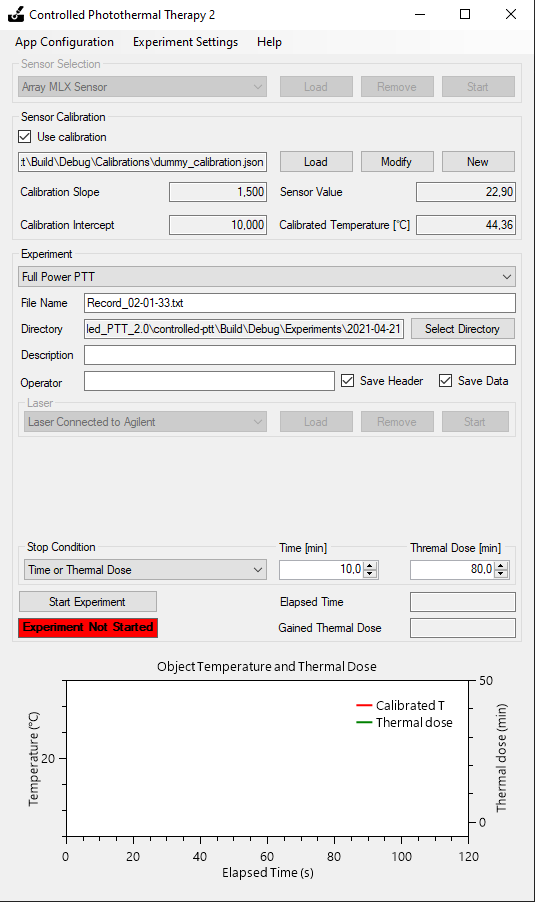
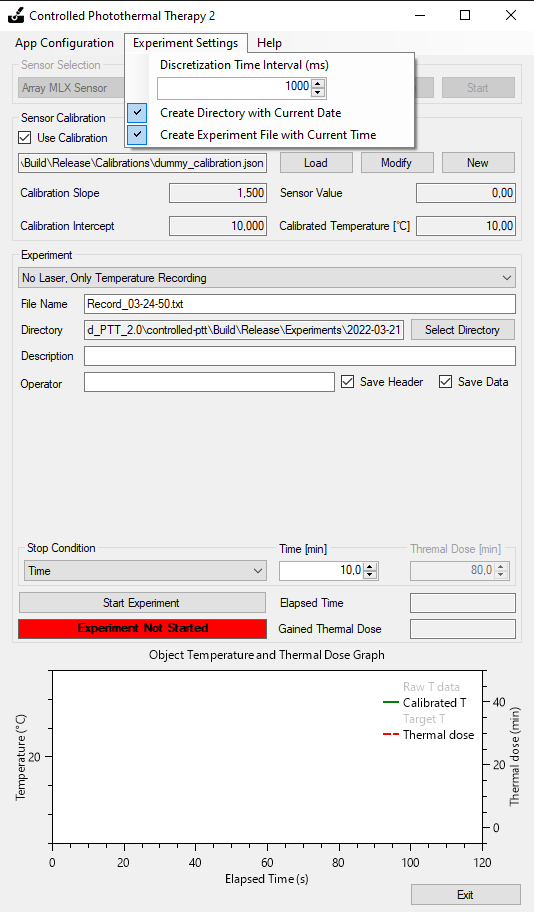
Working on README.md files.

diff --git a/App/App.cs b/App/App.cs
@@ -711,10 +711,7 @@ namespace ControlledPTT
         {
             _discretizationTime = (int)nudDiscretizationTimeToolStripMenuItem.NumericUpDownControl.Value;
             _expTimer.Interval = _discretizationTime;
-            if (_sensor != null)
-            {
-                _sensor.SetTimerInterval(_discretizationTime);
-            }
+            _sensor?.SetTimerInterval(_discretizationTime);
         }
 
         /// <summary>
@@ -944,7 +941,9 @@ namespace ControlledPTT
             SaveAppConfiguration();
 
             _calibration.Dispose();
-            // Log.CloseAndFlush();
+
+            _sensor?.Close();
+            _laser?.Close();
         }
 
         private void saveToolStripMenuItem_Click(object sender, EventArgs e)

diff --git a/README.md b/README.md
@@ -3,9 +3,11 @@
 [![DOI](https://zenodo.org/badge/284663695.svg)](https://zenodo.org/badge/latestdoi/284663695)
 [![License](https://img.shields.io/badge/license-GPLv3.0-blue)](./LICENSE)
 
-# Controlled Photothermal Therapy 2.0
+# Controlled Photothermal Therapy 2
 
-Controlled Photothermal Therapy 2.0 (or just Controlled PTT 2) is the second version of software and hardware setup to study thermal effects of nanoparticles under laser irradiation *in vitro* (on living cells) or *in vivo* (in small animals). The primary aim is to control the temperature if cell media *in vitro*, but the setup can be applied for animal studies. Depending on time of laser irradiation, nanoparticle type, their photothermal conversion efficiency, different thermal dose can be delivered to the irradiated object. Thus, different biological responses can be triggered depending on the maximum achived temperature and gained thermal dose. More about thermal dose can be found in our [publication](https://www.sciencedirect.com/science/article/pii/S0378517320306414).
+![ControlledPTT.App.All](./Docs/Images/ControlledPTT.App.Experiment.png)
+
+Controlled Photothermal Therapy 2 (or just Controlled PTT 2) is the second version of software and hardware setup to study thermal effects of nanoparticles under laser irradiation *in vitro* (on living cells) or *in vivo* (in small animals). The primary aim is to control the temperature if cell media *in vitro*, but the setup can be applied for animal studies. Depending on time of laser irradiation, nanoparticle type, their photothermal conversion efficiency, different thermal dose can be delivered to the irradiated object. Thus, different biological responses can be triggered depending on the maximum achived temperature and gained thermal dose. More about thermal dose can be found in our [publication](https://www.sciencedirect.com/science/article/pii/S0378517320306414).
 
 Controlled PTT 2 consists of two main parts: [hardware part](#hardware) and [software part](#software). The hardware part consists of temperature sensor(s) and a laser. Depending on the application, different sensor parts and laser parts can be used. You can also develop your own sensor or laser parts, or they can be developed specifically for you upon a request. Please contact [Konstantin Tamarov](mailto:konstantin.tamarov@uef.fi) to discuss your requirements.
 
@@ -13,7 +15,7 @@ Controlled PTT 2 was developed by Konstantin Tamarov, PhD, Emilia Happonen, MSc,
 
 ## Reqiurements
 
-The Controlled PTT 2.0 consists of 3 main parts: (1) the PC program written in C# programming language; (2) the board part which reads the temperature sensor data and sends it to the PC program; (3) the laser part which controls the laser hardware if it is attached. The following requirements are in place:
+The Controlled PTT 2 consists of 3 main parts: (1) the PC program written in C# programming language; (2) the board part which reads the temperature sensor data and sends it to the PC program; (3) the laser part which controls the laser hardware if it is attached. The following requirements are in place:
 
 - [.NET Framework 4.7.2](https://dotnet.microsoft.com/download/dotnet-framework/net472) to run the software on a PC with Windows OS. .NET Framework 4.7.2 is included by default in Windows 7 or higher.
 - [Arduino Studio 1.8.13](https://www.arduino.cc/en/software) or higher. Arduino Studio is needed to install necessary drivers and upload the program to the board. Refer to the [sensors](#selecting-sensor-part) section or to the full [Sensors](./Sensors) documentation for more information about temperature sensors and boards.
@@ -28,8 +30,8 @@ The Controlled PTT 2 software requires either its executables to be [downloaded]
 ### Download executables
 
 To use the Controlled PTT 2 executables directly do the following:
-1. Download Executables.zip archive from the [latest release](https://github.com/naitsok/controlled-ptt/releases/).
-2. Unpack the contents of Executables.zip to any suitable location (e.g. Program Files, Documents, Desktop, etc.).
+1. Download Release-v2.x.x.zip archive from the [latest release](https://github.com/naitsok/controlled-ptt/releases/).
+2. Unpack the contents of Release-v2.x.x.zip to any suitable location (e.g. Program Files, Documents, Desktop, etc.).
 3. Navigate to Sensors directory and select the appropriate sensor. Sketches and necessary libraries for boards are located in Board* directory for each sensor.
 4. Upload the selected sensor's sketch to the board using Arduino Studio. The detailed instruction for boards are in the [Sensors](./Sensors).
 5. Run the ControlledPTT.App.exe. More information about its capabilities and interface is in [App](./App).
@@ -43,7 +45,7 @@ To build the Contolled PTT 2 from source do the following:
 2. Download source code from the [latest release](https://github.com/naitsok/controlled-ptt/releases/) or clone the repository using the git command `git clone https://github.com/naitsok/controlled-ptt`.
 3. Navigate to controlled-ptt/Sensors directory and select the appropriate sensor. Sketches and necessary libraries for boards are located in Board* directory for each sensor.
 4. Upload the selected sensor's sketch to the board using Arduino Studio. The detailed instruction for boards are in the [Sensors](./Sensors).
-5. Run Visual Studio and open the [controlled-ptt/ControlledPTT.sln](./ControlledPTT.sln) file. There should be 9 C# project including ControlledPTT.App.
+5. Run Visual Studio and open the [controlled-ptt/ControlledPTT.sln](./ControlledPTT.sln) file. There should be 10 C# project including ControlledPTT.App.
 6. Make sure that Startup Project is ControlledPTT.App in the dropdown list in the panel below menu.
 7. Select either Debug or Release.
 8. In the Visual Studio interface press "Start" to start building solution. If there are no errors, ControlledPTT.App will launch after a while.
@@ -68,21 +70,23 @@ If there is no part suitable for your hardware, new sensor part [can be develope
 
 #### Troubleshooting
 
-- Mkae sure that the board connected via USB is recognized by PC. It can be done using Windows Device Manager and checking if there are unrecognized USB devices.
+- Make sure that the board connected via USB is recognized by PC. It can be done using Windows Device Manager and checking if there are unrecognized USB devices.
 - After uploading the sketch to the board using Arduino Studio, Serial Monitor there can be used to check if board is sending data to PC.
-- The compiled Windows Forms executables for each sensor part can be run separately without running ControlledPTT.App. By clicking "Connect to Board" button, the received data from board can be verified. Note that Serial Monitor of Arduino Studio must be closed.
+- The compiled Windows Forms executables for each sensor part can be run separately without running ControlledPTT.App. By clicking "Connect to Board" button, the received data from board can be verified. Note that Serial Monitor of Arduino Studio must be closed and the appropriate COM port must be selected.
 
 ### Selecting laser part
 
-At this moment the only option is to connect a laser diode to [Agilent N5768A or similar](./Lasers/Agilent) power supply, which is in turn connected to PC and ControlledPTT.App. The power supply sets the current to the laser diode and thus regulate its power.
+The currently developed laser parts are:
+1. [CNI LED Laser](./Lasers/CNIMDLIII) with the MDL-III-LED controller. Controlled PTT 2 sends the power data to the controller via COM port connection. The Prolific USB-to-Serial Comm Port is [Lib](./Lasers/CNIMDLIII/Lib) folder.
+2. Connect a laser diode to [Agilent N5768A or similar](./Lasers/Agilent) power supply, which is in turn connected to PC and Controlled PTT 2. The power supply sets the current to the laser diode and thus regulates its power.
 
-Thus, if you have a specific laser hardware which can be connected to PC, new laser part [can be developed](#developing-a-new-laser-part) upon a [request](mailto:konstantin.tamarov@uef.fi) or by [yourself](#development).
+If you have a specific laser hardware which can be connected to PC, new laser part [can be developed](#developing-a-new-laser-part) upon a [request](mailto:konstantin.tamarov@uef.fi) or by [yourself](#development).
 
 ## Detailed description
 
 Controlled PTT 2 aims at making photothermal experiments with nanoparticle suspensions easy, controlled, reproducible and versatile. Easiness is gained through using a unified interface of the [ControlledPTT.App](#software), which is independent from sensor or laser part used. Control is achieved by possibility to perform different types of experiments and applying different experiment stop conditions. Reproducibility is obtained through keeping calibrations and having different configuration profiles for different users. Versatility is aquired through independence of the [ControlledPTT.App](#software) from the laser and sensor part. Virtually any sensor and any laser can be connected to the [ControlledPTT.App](#software) considering its executable inherits [the necessary base classes](#development). Thus, the experiments can be performed in any imaginable experimental setup, including *in situ* measurements, *in vitro* experiments with live cells, or *in vivo* experiments with animals, provided that the suitable laser and sensor parts are available.
 
-Overall, to perform its functions properly  Controlled PTT 2 requires the necessary [hardware](#hardware) and [software](#software).
+Overall, to perform its functions properly Controlled PTT 2 requires the necessary [hardware](#hardware) and [software](#software).
 
 ### Hardware
 
@@ -90,13 +94,13 @@ Hardware of Controlled PTT 2 consists of two main parts:
 
 1) Sensor part. This part is responsible for getting data from sensors and sending it to PC via any suitable connection. At this point, the developed [sensor parts](#selecting-sensor-part) are dedicated to *in vitro* experiments in 96-well plates. These sensor parts consist of one or two infrared temperature sensors connected to an Arduino or similar board that each second sends the measured temperature data to a PC. On the PC, the sensor executable written in C# reads the data, parses it if necessary and sends to [ControlledPTT.App](#software) for calibration and further processing.
 
-2) Laser part. This part is resonsible for controlling laser hardware, e.g. initializing connection to laser, setting necessary parameters and controlling the laser power. At this point, the only available option is to control current sent to a laser diode through [Agilent power supply](./Lasers/Agilent).
+2) Laser part. This part is resonsible for controlling laser hardware, e.g. initializing connection to laser, setting necessary parameters and controlling the laser power. At this point, Agilent power supply and CNI Laser [laser parts](#selecting-laser-part) are programmed.
 
 ### Software
 
 Controlled PTT 2 Software consists of three parts:
 
-1) ControlledPTT.App(.exe) is the main application executable. It performes connection to sensor and laser part, manages sensor and laser, creates and keeps calibration for sensor data, and performes the experiment.
+1) ControlledPTT.App(.exe) is the main application executable. It performes connection to sensor and laser parts, manages sensor and laser, creates and keeps calibration for sensor data, and performes the experiment. More details can be found in [the related folder](./App).
 
 ![ControlledPTT.App](./Docs/Images/ControlledPTT.App.png)
 
@@ -110,7 +114,9 @@ There are there different stop conditions for an experiment:
 - Stop when specified thermal dose of the object is gained. More about thermal dose can be found in our [publication](https://www.sciencedirect.com/science/article/pii/S0378517320306414).
 - Stop when either timer expires or specified thermal dose is gained.
 
-2) ControlledPTT.Sensors.(MLXSensor|TwoMLXSensors|ArrayMLXSensor)(.exe) are executables for sensor parts. Inside of the deirectories for each sensor executable there is a folder with sketches for Arduino Studio and detailed instruction of board wiring and sketch upload guide. In the top of ControlledPTT.App interface sensor part can be selected and loaded. Below is the image of all sensor parts available now.
+The important option is "Discretization Time Interval" in ms; it can be modified in the Experimetal Setting menu. The "Discretization Time Interval" governs the time interval between the events during the experiment. In particular, it controls how often the temperature data from Sensor part is sent to the ControlledPTT.App, how often the data is processed and saved, and  how often Laser power is set. For example, if the "Discretization Time Interval" equals to 1000 ms, then each second data is obtained from a Sensor part, the data is modified according to the loaded calibration, the laser power is calculated and sent to the Laser part if the appropriate experiment type is selected.
+
+2) ControlledPTT.Sensors.(MLXSensor|TwoMLXSensors|ArrayMLXSensor)(.exe) are executables for sensor parts. Inside of the directories for each sensor executable there is a folder with sketches for Arduino Studio and detailed instruction of board wiring and sketch upload guide. In the top of ControlledPTT.App interface sensor part can be selected and loaded. Below is the image of all sensor parts available now.
 
 ![ControlledPTT.Sensors](./Docs/Images/ControlledPTT.Sensors.png)
 
@@ -152,13 +158,19 @@ To cite the latest version:
 
 K. Tamarov, M. Varis. 2021. Controlled Photothermal Therapy 2. [DOI: 10.5281/zenodo.4629678](https://doi.org/10.5281/zenodo.4749684).
 
-To cite the specific version, select the DOI of soecific version on [Zenodo page](https://doi.org/10.5281/zenodo.4749684):
+To cite the specific version, select the DOI of specific version on [Zenodo page](https://doi.org/10.5281/zenodo.4749684):
 
 K. Tamarov, M. Varis. 2021. Controlled Photothermal Therapy 2. DOI: (Use DOI of specific version).
 
 
-
 ## Changelog
+### V2.0.1
+
+#### Feature:
+- CNI Laser with PSU-III-LED controller is added.
+- Discretization Time Interval is added to the Experiment Settings menu.
+- Minor updates and bug fixes, such as correct configuration saving for laser and sensor parts.
+- Updated README.md files.
 
 ### v2.0.0
 #### Features:

diff --git a/App/README.md b/App/README.md
@@ -1,0 +1,36 @@
+## ControlledPTT.App
+
+This C# project hosts the main startup application of the Controlled PTT 2. When the Release-v2.x.x is downloaded, it is ControlledPTT.App.exe that must be tun in order for the Controlled PTT 2 to work. 
+
+![ControlledPTT.App](../Docs/Images/ControlledPTT.App.png)
+
+### Reqiurements
+
+- [.NET Framework 4.7.2](https://dotnet.microsoft.com/download/dotnet-framework/net472) to run the software on a PC with Windows OS. .NET Framework 4.7.2 is included by default in Windows 7 or higher.
+
+### Main functionality
+
+ControlledPTT.App controls all the main functions:
+1. It performs the connection to the selected [Sensor part](../Sensors) and received the temperature data. The Sensor parts can be added by the user if they cannot be found by the ControlledPTT.App.
+2. It performs and stores the calibration data for the temperature sensor. The calibration can be added, saved and modified through the ControlledPTT.App.
+3. It performs the connection to the selected [Laser part](../Lasers) and set the laser power if the appropriate [experiment type](#experiment-types) is selected. The Laser parts can be added by the user if they cannot be found by the ControlledPTT.App.
+4. It records the all the experimental data and additional meta parameters that can be found on the interface.
+5. Different user configurations (parameters) can be saved and reused making it easier for different user to use the software.
+
+### Important parameters and functions
+
+The important option is "Discretization Time Interval" in ms; it can be modified in the Experimetal Setting menu. The "Discretization Time Interval" governs the time interval between the events during the experiment. In particular, it controls how often the temperature data from Sensor part is sent to the ControlledPTT.App, how often the data is processed and saved, and  how often Laser power is set. For example, if the "Discretization Time Interval" equals to 1000 ms, then each second data is obtained from a Sensor part, the data is modified according to the loaded calibration, the laser power is calculated and sent to the Laser part if the appropriate experiment type is selected.
+
+"Discretization Time Interval" must be carefully selectd based on the current experiment requirements. It cannot be too small, because then it is possible that the ControlledPTT.App cannot perform all the functions before the second timer tick fires. Furthermore, short "Discretization Time Interval" does not allow to average the temperature sensor data, which is typically quite noisy. Too long "Discretization Time Interval" can, on the other hand, make controlling the experiment less responsive, especially of the laser power must be controlled to keep the selected temperature.
+
+### Experiment types
+
+There are three main types of experiments:
+- Experiment with only sensor part connected. ControlledPTT.App receives the data from sensor, uses calibration if applicable, writes the data to file. This experiment type can be used if laser is operated manually or there is no laser at all.
+- Experiment with a full laser power. The power of laser is set by the user in laser window and ControlledPTT.App only switches laser on when experiment is started and off when experiment is over.
+- Experiment with controlled laser power to achieve a specific temperature of the irradiated target. The power of laser is controlled using a built in Proportional-Integrtal-Differential (PID) controller in the limits set by the user in the laser window. The PID coefficients must be calibrated for the specifically used laser in order to be efficient.
+
+There are there different stop conditions for an experiment:
+- Stop when time expires.
+- Stop when specified thermal dose of the object is gained. More about thermal dose can be found in our [publication](https://www.sciencedirect.com/science/article/pii/S0378517320306414).
+- Stop when either timer expires or specified thermal dose is gained.

diff --git a/Sensors/README.md b/Sensors/README.md
@@ -1,3 +1,38 @@
-# controlledptt-sensor
+## Sensors
+
+
+### Requirements
+
+Each sensor part consists of two compnents: (1) the C# module to read the data sent from the sensor; (2) board connected to the sensor hardware and PC. The following requirements are in place:
+
+- [.NET Framework 4.7.2](https://dotnet.microsoft.com/download/dotnet-framework/net472) to run the C# module on a PC with Windows OS. .NET Framework 4.7.2 is included by default in Windows 7 or higher.
+- [Arduino Studio 1.8.13](https://www.arduino.cc/en/software) or higher. Arduino Studio is needed to install necessary drivers and upload the program to the board. More details in the [sensors section](#selecting-sensor-part).
+
+### Selecting sensor part
+
+The curently developed sensor parts are based on the [Melexis](https://www.melexis.com/en) infrared temperature sensors:
+1. MLX90621ESF-BAD-000. 16x4  array sensor with FOV 40x10 degrees (40 - 50 €).
+2. MLX90614ESF-BCF-000. Single pixel sensor with FOV 10 degrees (25 - 35 €).
+3. MLX90614ESF-BCI-000. Single pixel sensor with FOV 5 degrees (30 - 40 €).
+
+The latter two single point sensors can be used on their own with a basic Arduino board (Uno, RedBoard, etc.). See [MLX Sensor](./Sensors/MLXSensor) part for more details. 
+
+Furthermore, two single point sensors can be simultaneously attached to one board for better precision. See [Two MLX Sensors](./Sensors/TwoMLXSensors) part for more details. 
+
+Array sensor requires a board with more memory than Arduino. In our case a [Teensy 3.6](https://www.pjrc.com/teensy/) board was used. See [Array MLX Sensor](./Sensors/ArrayMLXSensor) part for more details.
+
+In order to use a selected sesnor part, the sensor must be correcly mounted to board and the appropriate sketch must be uploaded to the board. The detailed description of board wiring and sketch uploading can be found on the links above.
+
+If there is no part suitable for your hardware, new sensor part [can be developed](#developing-a-new-sensor-part) upon a [request](mailto:konstantin.tamarov@uef.fi) or by [yourself](#development). 
+
+#### Troubleshooting
+
+- Make sure that the board connected via USB is recognized by PC. It can be done using Windows Device Manager and checking if there are unrecognized USB devices.
+- After uploading the sketch to the board using Arduino Studio, Serial Monitor there can be used to check if board is sending data to PC.
+- The compiled Windows Forms executables for each sensor part can be run separately without running ControlledPTT.App. By clicking "Connect to Board" button, the received data from board can be verified. Note that Serial Monitor of Arduino Studio must be closed and the appropriate COM port must be selected.
+
+### Developing a new sensor part
+
+The correct implementation of a new sensor part requires the development of hardware and software parts. The hardware part is completely under one's specification. The software part must be developed using Visual Studio 2019 and .NET Framework 4.7.2. The sensor part executable must be inherited from the [BaseSensor](./Sensors/BaseSensor) class, which is in turn inherited from the System.Windows.Forms.Form class.
 
 Contains sketches programs to read the data from temperature sensors using suggested harware, send the data to PC and display it on PC using C# programs.
